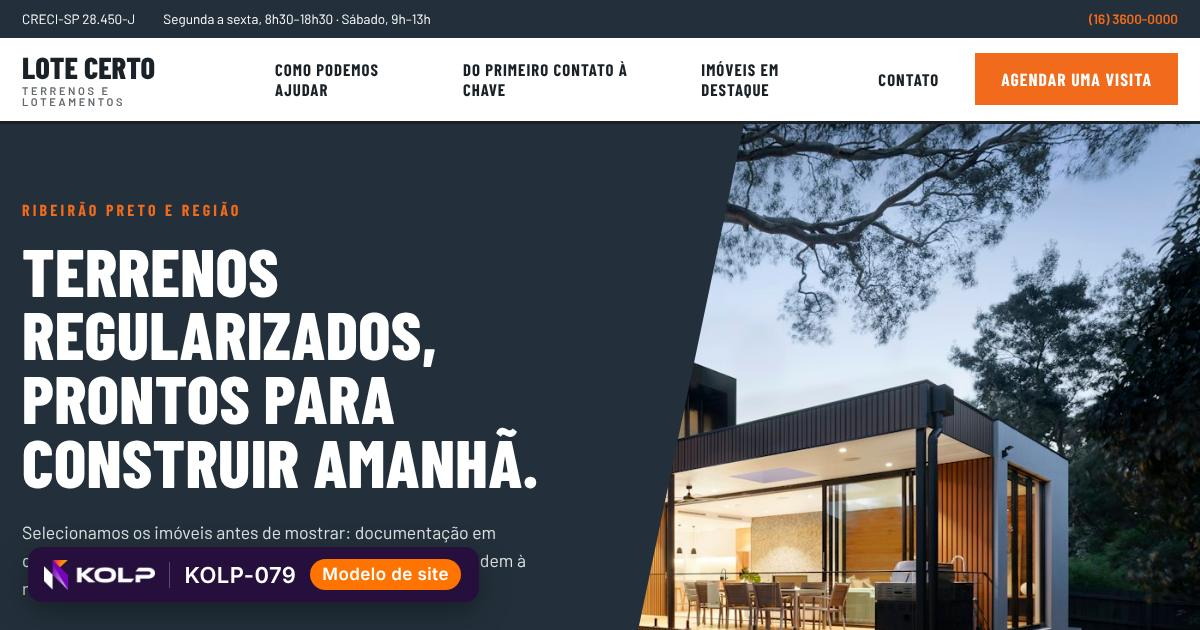
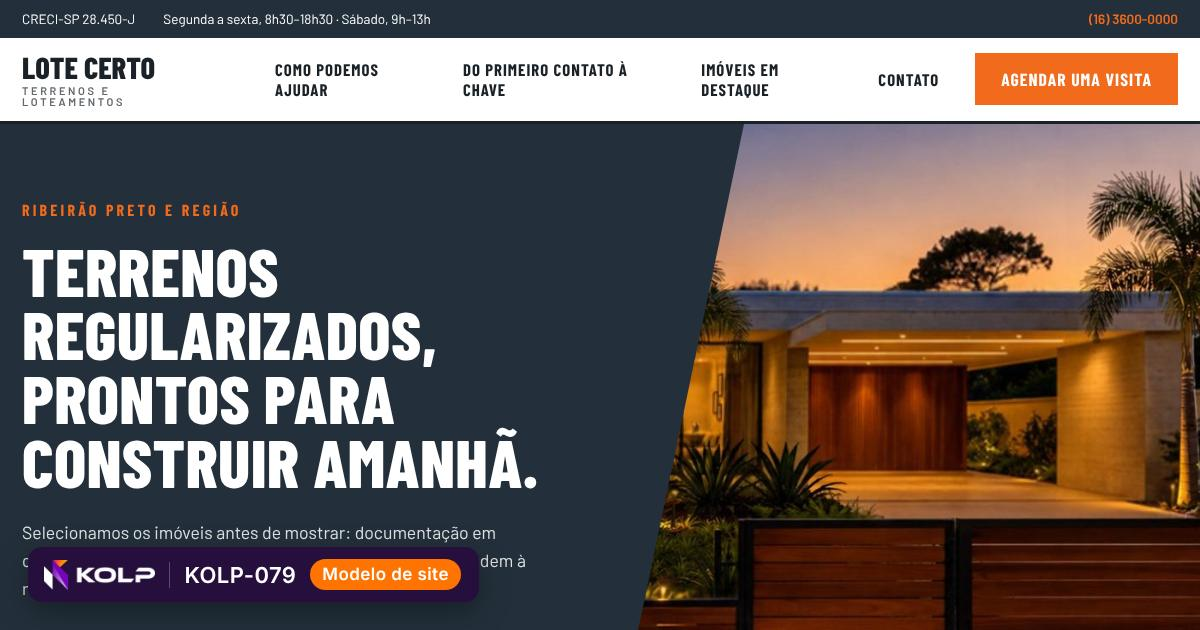
Bring imobiliaria to 10 photos
Claude-Session: https://claude.ai/code/session_0151Yi9K8yWSyYvoKWm1KgPz

diff --git a/kolp-modelos/demo/imobiliaria-08/index.html b/kolp-modelos/demo/imobiliaria-08/index.html
@@ -34,17 +34,17 @@
     <p class="lide">Administramos mais de seiscentos imóveis alugados, com repasse garantido ao proprietário no dia cinco.</p>
     <div class="acoes"><a class="botao" href="#contato">Agendar uma visita</a><a class="elo" href="#servicos">Ver imóveis em destaque</a></div>
     <div class="mosaico">
-      <img class="m1" src="../../fotos/imobiliaria/2.jpg" alt="" width="1400" height="930">
-      <img class="m2" src="../../fotos/imobiliaria/1.jpg" alt="" width="1400" height="930">
-      <img class="m3" src="../../fotos/imobiliaria/3.jpg" alt="" width="1400" height="930">
+      <img class="m1" src="../../fotos/imobiliaria/9.jpg" alt="" width="1400" height="930">
+      <img class="m2" src="../../fotos/imobiliaria/8.jpg" alt="" width="1400" height="930">
+      <img class="m3" src="../../fotos/imobiliaria/10.jpg" alt="" width="1400" height="930">
       <p class="selo"><b>32</b>anos de mercado</p>
     </div>
   </div></section>
   <section class="pontos"><ul class="largura"><li class="rev">Documentação conferida antes da visita</li><li class="rev">Financiamento simulado em quatro bancos</li><li class="rev">Visitas à noite e aos fins de semana</li></ul></section>
   <section class="servicos" id="servicos"><div class="largura">
     <header class="topo rev"><h2>Como podemos ajudar</h2><p>Do primeiro imóvel ao patrimônio de locação.</p></header>
-    <div class="par rev"><img src="../../fotos/imobiliaria/4.jpg" alt="" width="1400" height="930" loading="lazy"><ul><li><h3>Compra</h3><p>Seleção de imóveis pelo seu perfil, visitas acompanhadas e negociação com o proprietário.</p></li><li><h3>Venda</h3><p>Avaliação de mercado, fotos profissionais, divulgação e triagem de interessados.</p></li><li><h3>Locação</h3><p>Residencial e comercial, com análise de crédito em 24 horas.</p></li></ul></div>
-    <div class="par par-inv rev"><img src="../../fotos/imobiliaria/5.jpg" alt="" width="1400" height="930" loading="lazy"><ul><li><h3>Administração</h3><p>Cobrança, repasse, vistorias e manutenção, com relatório mensal ao proprietário.</p></li><li><h3>Financiamento</h3><p>Simulação, montagem do processo e acompanhamento junto aos bancos.</p></li><li><h3>Documentação</h3><p>Certidões, escritura, registro e regularização de imóveis.</p></li></ul></div>
+    <div class="par rev"><img src="../../fotos/imobiliaria/1.jpg" alt="" width="1400" height="930" loading="lazy"><ul><li><h3>Compra</h3><p>Seleção de imóveis pelo seu perfil, visitas acompanhadas e negociação com o proprietário.</p></li><li><h3>Venda</h3><p>Avaliação de mercado, fotos profissionais, divulgação e triagem de interessados.</p></li><li><h3>Locação</h3><p>Residencial e comercial, com análise de crédito em 24 horas.</p></li></ul></div>
+    <div class="par par-inv rev"><img src="../../fotos/imobiliaria/2.jpg" alt="" width="1400" height="930" loading="lazy"><ul><li><h3>Administração</h3><p>Cobrança, repasse, vistorias e manutenção, com relatório mensal ao proprietário.</p></li><li><h3>Financiamento</h3><p>Simulação, montagem do processo e acompanhamento junto aos bancos.</p></li><li><h3>Documentação</h3><p>Certidões, escritura, registro e regularização de imóveis.</p></li></ul></div>
   </div></section>
   <section class="precos" id="precos"><div class="largura">
     <header class="topo rev"><h2>Imóveis em destaque</h2><p>Uma amostra do que temos hoje. A lista completa enviamos pelo WhatsApp.</p></header>

diff --git a/kolp-modelos/demo/imobiliaria-07/index.html b/kolp-modelos/demo/imobiliaria-07/index.html
@@ -43,7 +43,7 @@
     <header class="topo rev"><h2>Como podemos ajudar</h2><p>Do primeiro imóvel ao patrimônio de locação.</p></header>
     <ol class="cartoes"><li class="rev"><h3>Compra</h3><p>Seleção de imóveis pelo seu perfil, visitas acompanhadas e negociação com o proprietário.</p></li><li class="rev"><h3>Venda</h3><p>Avaliação de mercado, fotos profissionais, divulgação e triagem de interessados.</p></li><li class="rev"><h3>Locação</h3><p>Residencial e comercial, com análise de crédito em 24 horas.</p></li><li class="rev"><h3>Administração</h3><p>Cobrança, repasse, vistorias e manutenção, com relatório mensal ao proprietário.</p></li><li class="rev"><h3>Financiamento</h3><p>Simulação, montagem do processo e acompanhamento junto aos bancos.</p></li><li class="rev"><h3>Documentação</h3><p>Certidões, escritura, registro e regularização de imóveis.</p></li></ol>
   </div></section>
-  <section class="faixa rev"><img src="../../fotos/imobiliaria/1.jpg" alt="" width="1400" height="930" loading="lazy"><p>“Imóvel certo é o que cabe na sua rotina, não só no seu orçamento”</p></section>
+  <section class="faixa rev"><img src="../../fotos/imobiliaria/8.jpg" alt="" width="1400" height="930" loading="lazy"><p>“Imóvel certo é o que cabe na sua rotina, não só no seu orçamento”</p></section>
   <section class="precos" id="precos"><div class="largura precos-grade">
     <div class="precos-lado rev"><h2>Imóveis em destaque</h2><p>Uma amostra do que temos hoje. A lista completa enviamos pelo WhatsApp.</p><a class="botao" href="#contato">Agendar uma visita</a></div>
     <div class="rev"><details open><summary>À venda</summary><ul><li><div><b>Casa no Jardim Canadá</b><span>4 quartos, 320 m², piscina</span></div><strong>R$ 1,48 mi</strong></li><li><div><b>Apartamento no Centro</b><span>3 quartos, 112 m², 2 vagas</span></div><strong>R$ 690 mil</strong></li><li><div><b>Sobrado em condomínio</b><span>3 suítes, 210 m²</span></div><strong>R$ 980 mil</strong></li><li><div><b>Cobertura duplex</b><span>280 m², vista para o parque</span></div><strong>R$ 2,1 mi</strong></li></ul></details><details><summary>Para alugar</summary><ul><li><div><b>Apartamento mobiliado</b><span>2 quartos, 74 m², Jardim Irajá</span></div><strong>R$ 3.200</strong></li><li><div><b>Casa térrea</b><span>3 quartos, quintal, Alto da Boa Vista</span></div><strong>R$ 4.800</strong></li><li><div><b>Studio</b><span>38 m², ao lado da universidade</span></div><strong>R$ 1.650</strong></li></ul></details><details><summary>Comercial e terrenos</summary><ul><li><div><b>Sala comercial</b><span>62 m², Av. Presidente Vargas</span></div><strong>R$ 2.900</strong></li><li><div><b>Galpão</b><span>800 m², distrito industrial</span></div><strong>R$ 14 mil</strong></li><li><div><b>Terreno em condomínio</b><span>450 m², pronto para construir</span></div><strong>R$ 420 mil</strong></li></ul></details></div>

diff --git a/kolp-modelos/demo/imobiliaria-10/index.html b/kolp-modelos/demo/imobiliaria-10/index.html
@@ -30,7 +30,7 @@
 <div class="conteudo">
 <main>
   <section class="abertura">
-    <img src="../../fotos/imobiliaria/3.jpg" alt="" width="1400" height="930">
+    <img src="../../fotos/imobiliaria/10.jpg" alt="" width="1400" height="930">
     <div class="legenda"><p class="rotulo">Desde 1992 · Ribeirão Preto e região</p><h1>Corretores experientes que acompanham você até a escritura.</h1></div>
   </section>
   <section class="sobre" id="sobre">
@@ -41,7 +41,7 @@
     <header class="topo"><h2>Como podemos ajudar</h2><p>Do primeiro imóvel ao patrimônio de locação.</p></header>
     <ul class="servicos"><li><h3>Compra</h3><p>Seleção de imóveis pelo seu perfil, visitas acompanhadas e negociação com o proprietário.</p></li><li><h3>Venda</h3><p>Avaliação de mercado, fotos profissionais, divulgação e triagem de interessados.</p></li><li><h3>Locação</h3><p>Residencial e comercial, com análise de crédito em 24 horas.</p></li><li><h3>Administração</h3><p>Cobrança, repasse, vistorias e manutenção, com relatório mensal ao proprietário.</p></li><li><h3>Financiamento</h3><p>Simulação, montagem do processo e acompanhamento junto aos bancos.</p></li><li><h3>Documentação</h3><p>Certidões, escritura, registro e regularização de imóveis.</p></li></ul>
   </section>
-  <figure class="citacao"><img src="../../fotos/imobiliaria/4.jpg" alt="" width="1400" height="930" loading="lazy"><blockquote>“Imóvel certo é o que cabe na sua rotina, não só no seu orçamento”</blockquote></figure>
+  <figure class="citacao"><img src="../../fotos/imobiliaria/1.jpg" alt="" width="1400" height="930" loading="lazy"><blockquote>“Imóvel certo é o que cabe na sua rotina, não só no seu orçamento”</blockquote></figure>
   <section id="equipe">
     <header class="topo"><h2>Corretores</h2><p>Profissionais credenciados no CRECI, especializados por região.</p></header>
     <div class="equipe"><article><img src="../../fotos/retratos/m2.jpg" alt="Retrato de Fernando Castro" width="560" height="680" loading="lazy"><div><h3>Fernando Castro</h3><p class="cargo">Diretor · CRECI 28.450</p><p>Corretor há trinta anos e avaliador de imóveis credenciado.</p></div></article><article><img src="../../fotos/retratos/f2.jpg" alt="Retrato de Juliana Mendes" width="560" height="680" loading="lazy"><div><h3>Juliana Mendes</h3><p class="cargo">Vendas residenciais · CRECI 91.774</p><p>Especialista em condomínios fechados e imóveis para famílias.</p></div></article><article><img src="../../fotos/retratos/m3.jpg" alt="Retrato de Carlos Ramos" width="560" height="680" loading="lazy"><div><h3>Carlos Ramos</h3><p class="cargo">Locação e administração · CRECI 74.118</p><p>Responde pela carteira de imóveis administrados.</p></div></article></div>

diff --git a/kolp-modelos/demo/imobiliaria-09/index.html b/kolp-modelos/demo/imobiliaria-09/index.html
@@ -30,7 +30,7 @@
 </div></header>
 <main>
   <section class="abertura">
-    <img src="../../fotos/imobiliaria/2.jpg" alt="" width="1400" height="930">
+    <img src="../../fotos/imobiliaria/9.jpg" alt="" width="1400" height="930">
     <div class="abertura-bloco"><div>
       <p class="rotulo">Ribeirão Preto e região</p>
       <h1>Terrenos regularizados, prontos para construir amanhã.</h1>
@@ -51,7 +51,7 @@
     <header class="topo"><h2>Imóveis em destaque</h2><p>Uma amostra do que temos hoje. A lista completa enviamos pelo WhatsApp.</p></header>
     <div class="tabela-rolagem"><table><tbody><tr class="grupo"><th colspan="3">À venda</th></tr><tr><th>Casa no Jardim Canadá</th><td>4 quartos, 320 m², piscina</td><td>R$ 1,48 mi</td></tr><tr><th>Apartamento no Centro</th><td>3 quartos, 112 m², 2 vagas</td><td>R$ 690 mil</td></tr><tr><th>Sobrado em condomínio</th><td>3 suítes, 210 m²</td><td>R$ 980 mil</td></tr><tr><th>Cobertura duplex</th><td>280 m², vista para o parque</td><td>R$ 2,1 mi</td></tr></tbody><tbody><tr class="grupo"><th colspan="3">Para alugar</th></tr><tr><th>Apartamento mobiliado</th><td>2 quartos, 74 m², Jardim Irajá</td><td>R$ 3.200</td></tr><tr><th>Casa térrea</th><td>3 quartos, quintal, Alto da Boa Vista</td><td>R$ 4.800</td></tr><tr><th>Studio</th><td>38 m², ao lado da universidade</td><td>R$ 1.650</td></tr></tbody><tbody><tr class="grupo"><th colspan="3">Comercial e terrenos</th></tr><tr><th>Sala comercial</th><td>62 m², Av. Presidente Vargas</td><td>R$ 2.900</td></tr><tr><th>Galpão</th><td>800 m², distrito industrial</td><td>R$ 14 mil</td></tr><tr><th>Terreno em condomínio</th><td>450 m², pronto para construir</td><td>R$ 420 mil</td></tr></tbody></table></div>
   </div></section>
-  <section class="prova"><img src="../../fotos/imobiliaria/3.jpg" alt="" width="1400" height="930" loading="lazy">
+  <section class="prova"><img src="../../fotos/imobiliaria/10.jpg" alt="" width="1400" height="930" loading="lazy">
     <blockquote><p>“Visitamos seis imóveis e o terceiro era a nossa casa. Em outras imobiliárias tínhamos visto mais de trinta sem chegar perto.”</p><footer><b>Ana e Bruno Teixeira</b> compraram em 2024</footer></blockquote>
   </section>
   <section class="contato" id="contato"><div class="largura contato-grade">
